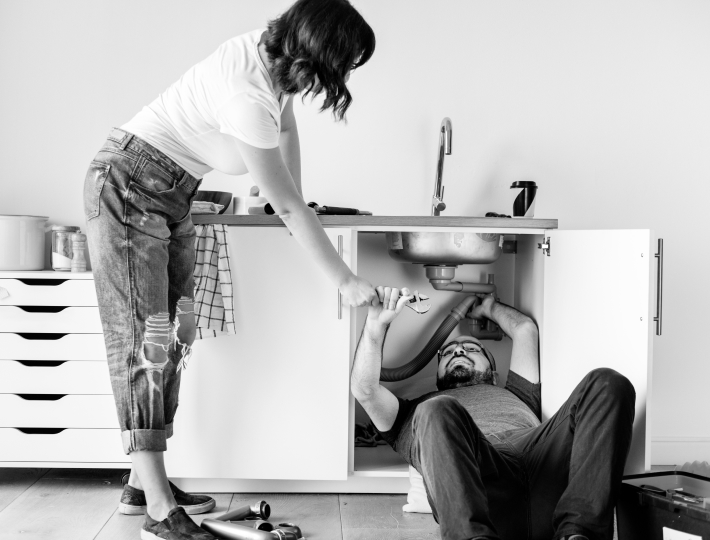
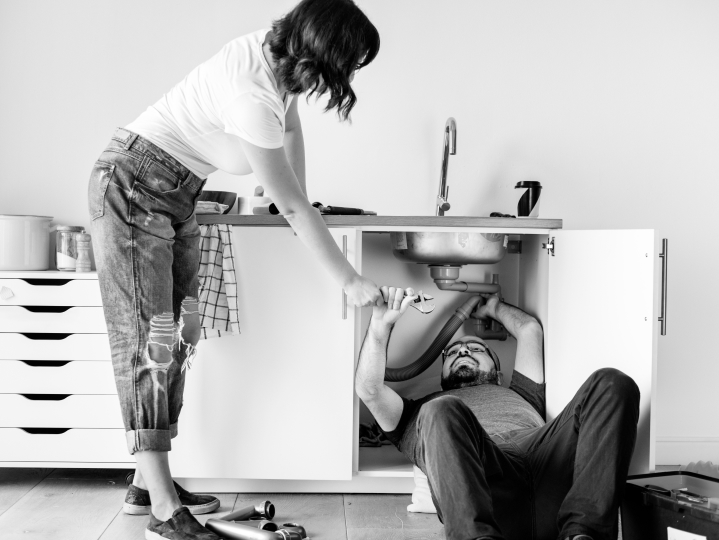
website

diff --git a/css/style.css b/css/style.css
@@ -70,7 +70,6 @@ h1,h2,h3,h4,h5,h6{font-size: inherit;font-weight: inherit;}
    margin: 0px auto;
    height: 933px;
 }
-
 .vert_lft_txt{
    display: flex;
    writing-mode: vertical-rl;
@@ -183,10 +182,10 @@ h1,h2,h3,h4,h5,h6{font-size: inherit;font-weight: inherit;}
    margin: 20px 0 0 10px;
 }
 .pg2block2{
-   background-image: url(../img/Page2\,1.jpg);
-   width: 710px;
+   background-image: url(../img/Page2img.jpg);
+   width: 720px;
    height: 540px;
-   margin-left: 125px;
+   margin-left: 115px;
 }
 /*Page 3*/
 .block4{
@@ -198,30 +197,30 @@ h1,h2,h3,h4,h5,h6{font-size: inherit;font-weight: inherit;}
 }
 .pg3block1{
    background-image: url(../img/page3img.jpg);
-   width: 710px;
+   width: 719px;
    height: 540px;
 }
 .pg3text1{
-   margin: 108px 0 0 676px;
+   margin: 108px 0 0 667px;
    font-size: 16px;
    font-family: 'Lato';
    font-weight: 300;
    color: rgba(69, 69, 69, 1);
 }
 .pg3line{
-   margin-left: 361px;
+   margin-left: 352px;
 }
 .pg3text2{
    font-family: 'Lato';
    font-size: 18px;
    font-weight: 300;
    width: 500px;
-   margin: 36px 0 0 124px;
+   margin: 36px 0 0 115px;
    line-height: 27px;
    color: rgba(0, 0, 0, 1);
 }
 .pg3text3{
-   margin: 24px 0 0 124px;
+   margin: 24px 0 0 115px;
    font-family: 'Lato';
    font-size: 18px;
    font-weight: 300;
@@ -234,7 +233,7 @@ h1,h2,h3,h4,h5,h6{font-size: inherit;font-weight: inherit;}
    color: rgba(69, 69, 69, 1);
 }
 .pg3text4{
-   margin: 10px 0 0 124px;
+   margin: 10px 0 0 115px;
    font-family: 'Lato';
    font-size: 18px;
    font-weight: 300;
@@ -245,4 +244,174 @@ h1,h2,h3,h4,h5,h6{font-size: inherit;font-weight: inherit;}
    font-weight: 600;
    padding-right: 16px;
    color: rgba(69, 69, 69, 1);
+}
+/*Page 4*/
+.h2block1{
+   font-size: 40px;
+   font-family: 'Georgia';
+   font-weight: 700;
+   color: rgba(69, 69, 69, 1);
+   text-align: center;
+   margin: 120px 0 65px 0;
+}
+.h2lines{
+   margin-top: 25px;
+   margin-left: 25px;
+   margin-right: 25px;
+}
+.block5{
+   display: block;
+   margin-bottom: 121px;
+}
+.block5row1{
+   display: flex;
+   margin: 0px auto;
+   max-width: 1441px;
+}
+.block5row2{
+   display: flex;
+   margin: 0px auto;
+   max-width: 1441px;
+   margin-top: 33px;
+}
+.text_row1{margin-left: 115px;} .text_row2{margin-left: 48px;} 
+.text_row3{margin-left: 48px;} .text_row4{margin-left: 48px;}
+
+.text_row5{margin-left: 115px;} .text_row6{margin-left: 48px;} 
+.text_row7{margin-left: 48px;} .text_row8{margin-left: 48px;}
+
+.h3textrow1{
+   font-family: 'Lato';
+   font-size: 32px;
+   font-weight: 300;
+   color: rgba(69, 69, 69, 1);
+}
+.text_p1{
+   font-size: 18px;
+   font-family: "Lato";
+   font-weight: 300;
+   margin-top: 16px;
+   line-height: 27px;
+   color: black;
+   width: 265px;
+}
+.row_icons{
+   width: 36px;
+   height: 36px;
+}
+/*Page 5*/
+
+.block6{
+   display: flex;
+   max-width: 1441px;
+   margin: 0px auto;
+   height: 736px;
+   background-image: url(../img/page4bgr.jpg);
+}
+.statistic{
+   position: relative;
+   top: 164px;
+   left: 310px;
+}
+.pg5ln1{
+   margin-top: 80px;
+   margin-left: 72px;
+}
+.pg5ln2{
+   margin-top: 80px;
+   margin-left: 200px;
+}
+.pg5_vert1{
+   writing-mode: vertical-rl;
+   transform: scale(-1);
+   font-size: 18px;
+   font-family: 'Lato';
+   font-weight: 400;
+   color: rgba(255, 255, 255, 1);
+   position: relative;
+   left: 382px;
+   bottom: 440px;
+}
+.stat_text{
+   display: flex;
+   position: relative;
+   left: 160px;
+   bottom: 190px;
+}
+.numbers{
+   font-size: 64px;
+   font-family: 'Lato';
+   font-weight: 500;
+   line-height: 76px;
+   color: rgba(255, 255, 255, 1);
+}
+.txt_und_numb{
+   font-size: 32px;
+   font-family: 'Lato';
+   font-weight: 300;
+   color: rgba(255, 255, 255, 1);
+}
+.numb2{margin-left: 79px;} .numb3{margin-left: 60px;}
+.txt_numb{margin-left: 42px;}
+
+.pg5_txt_inblock{
+   font-size: 18px;
+   font-family: 'Lato';
+   font-weight: 400;
+   color: white;
+   position: relative;
+   top: 475px;
+   left: 250px;
+}
+/*Footer*/
+.block_footer{
+   display: flex;
+   max-height: 1441px;
+   margin: 0px auto;
+}
+
+.block5fot{
+   display: flex;
+   margin: 0px auto;
+   max-width: 1441px;
+   margin-top: 80px;
+   position: relative;
+   left: -100px;
+}
+.text_fot_line{
+   font-family: 'Lato';
+   font-size: 18px;
+   font-weight: 300;
+}
+.text_f1{
+   font-family: 'Lato';
+   font-size: 18px;
+   font-weight: 300;
+   margin-top: 20px;
+   line-height: 32px;
+}
+.adress{
+   width: 200px;
+   margin-left: 180px;
+}
+.callus{
+   width: 161px;
+   margin-left: 70px;
+}
+.email{
+   width: 184px;
+   margin-left: 60px;
+}
+.fot_line{
+   margin-top: 64px;
+   margin-left: 100px;
+}
+.logo2{
+   font-size: 40px;
+   font-family: "Lato";
+   font-weight: 800;
+   color: rgba(87, 90, 96, 1);
+   position: relative;
+   top: 44px;
+   left: 20px;
 }

diff --git a/index.html b/index.html
@@ -12,7 +12,7 @@
    <title>YUST</title>
 </head>
 <body>
-   <!--Шапка (Header)-->
+   <!--(Header)-->
    <header class="block1">
     <div class="logo">
       YUST
@@ -97,5 +97,101 @@
         </div>
     </div>
 </div>
+<!--Page 4-->
+<h2 class="h2block1">
+  <img class="h2lines" src="img/h2lineleft.png" alt=""> Our Services <img class="h2lines" src="img/h2lineright.png" alt="">
+</h2>
+<div class="block5">
+  <div class="block5row1">
+    <div class="text_row1">
+      <h3 class="h3textrow1"><img class="row_icons" src="img/icon_row1.png" alt=""> Building</h3>
+      <p class="text_p1">Сonstruction opportunities: Re-roofing. Re-insulation - walls, lofts. Brickwork and blockwork.</p>
+    </div>
+    <div class="text_row2">
+      <h3 class="h3textrow1"><img class="row_icons" src="img/icon_row2.png" alt="">Plasterboard</h3>
+      <p class="text_p1">Installation of plasterboard, Stopping of plasterboard, Painting (interior/exterior)</p>
+    </div>
+    <div class="text_row3">
+      <h3 class="h3textrow1"><img class="row_icons" src="img/icon_row3.png" alt="">Floor Tiles</h3>
+      <p class="text_p1">Our refurbishment capabilities include:
+        Re-insulation - floors, Tiling & Flooring.</p>
+    </div>
+    <div class="text_row4">
+      <h3 class="h3textrow1"><img class="row_icons" src="img/icon_row4.png" alt="">House Roof</h3>
+      <p class="text_p1">Roof-related services: Re-roofing, Roof Repair, Roof Maintenance,
+        Insulation,
+        Gutters.</p>
+    </div>
+  </div>
+  <div class="block5row2">
+    <div class="text_row5">
+      <h3 class="h3textrow1"><img class="row_icons" src="img/icon_row5.png" alt="">Kitchen</h3>
+      <p class="text_p1">Minor Works include: Kitchen fit outs, Kitchen replacements, Gas boiler maintenance.</p>
+    </div>
+    <div class="text_row6">
+      <h3 class="h3textrow1"><img class="row_icons" src="img/icon_row6.png" alt="">Bathroom</h3>
+      <p class="text_p1">Minor Works include: Bathroom fit outs, Bathroom replacements, Plumbing and some repairs.</p>
+    </div>
+    <div class="text_row7">
+      <h3 class="h3textrow1"><img class="row_icons" src="img/icon_row7.png" alt="">Plumbing</h3>
+      <p class="text_p1">Leak Detection & Repair, Pipe Repair/Replacement, Plumbing Installation, Re-Piping</p>
+    </div>
+    <div class="text_row8">
+      <h3 class="h3textrow1"><img class="row_icons" src="img/icon_row8.png" alt="">Electricity</h3>
+      <p class="text_p1">New Wire Installation, General Electrical System Troubleshooting, Outlet Repair/Replacement</p>
+    </div>
+  </div>
+</div>
+<!--Page 5-->
+<div class="block6">
+    <div class="pg5_vert1">
+      People
+    </div>
+    <div class="statistic">
+      <img class="pg5ln1" src="img/pg5line1.png" alt=""> 
+      <img class="pg5ln2" src="img/page5line2.png" alt="">
+      <div class="stat_text">
+      <div>
+        <h4 class="numbers">476</h4>
+        <p class="txt_und_numb">Projects</p>
+      </div>
+      <div>
+        <h4 class="numbers numb2">280</h4>
+        <p class="txt_und_numb txt_numb"> Happy clients</p>
+      </div>
+      <div>
+        <h4 class="numbers numb3">8</h4>
+        <p class="txt_und_numb txt_numb">Years</p>
+      </div>
+    </div>
+  </div>
+  <div class="pg5_txt_inblock">
+    Project
+  </div>
+</div>
+<!--Footer-->
+<footer class="block_footer">
+  <div class="block5fot">
+    <div class="text_row1 adress">
+      <h3 class="h3textrow1"><img class="row_icons" src="img/icon_foot1.png" alt="">Office</h3>
+      <p class="text_f1">2CA, Downtown, NO, <br> United States</p>
+    </div>
+    <div class="text_row2  callus">
+      <h3 class="h3textrow1"><img class="row_icons" src="img/icon_foot2.png" alt="">Call Us</h3>
+      <p class="text_f1">+777 55 5222 5555 <br> +777 55 5222 5555 </p>
+    </div>
+    <div class="text_row3">
+      <h3 class="h3textrow1 email"><img class="row_icons" src="img/icon_foot3.png" alt="">Send Us </h3>
+      <p class="text_f1 email">pashuk406@gmail.com <br> askasoba21@gmail.com</p>
+    </div>
+    <div class="text_row3 fot_line">
+      <img src="img/foot_line.png" alt="">
+      <h3 class="text_fot_line">@2022 <b>YUST</b>, All right reserved</h3>
+    </div>
+    <div class="logo2">
+      YUST
+    </div>
+  </div>
+</footer>
 </body>
 </html>
